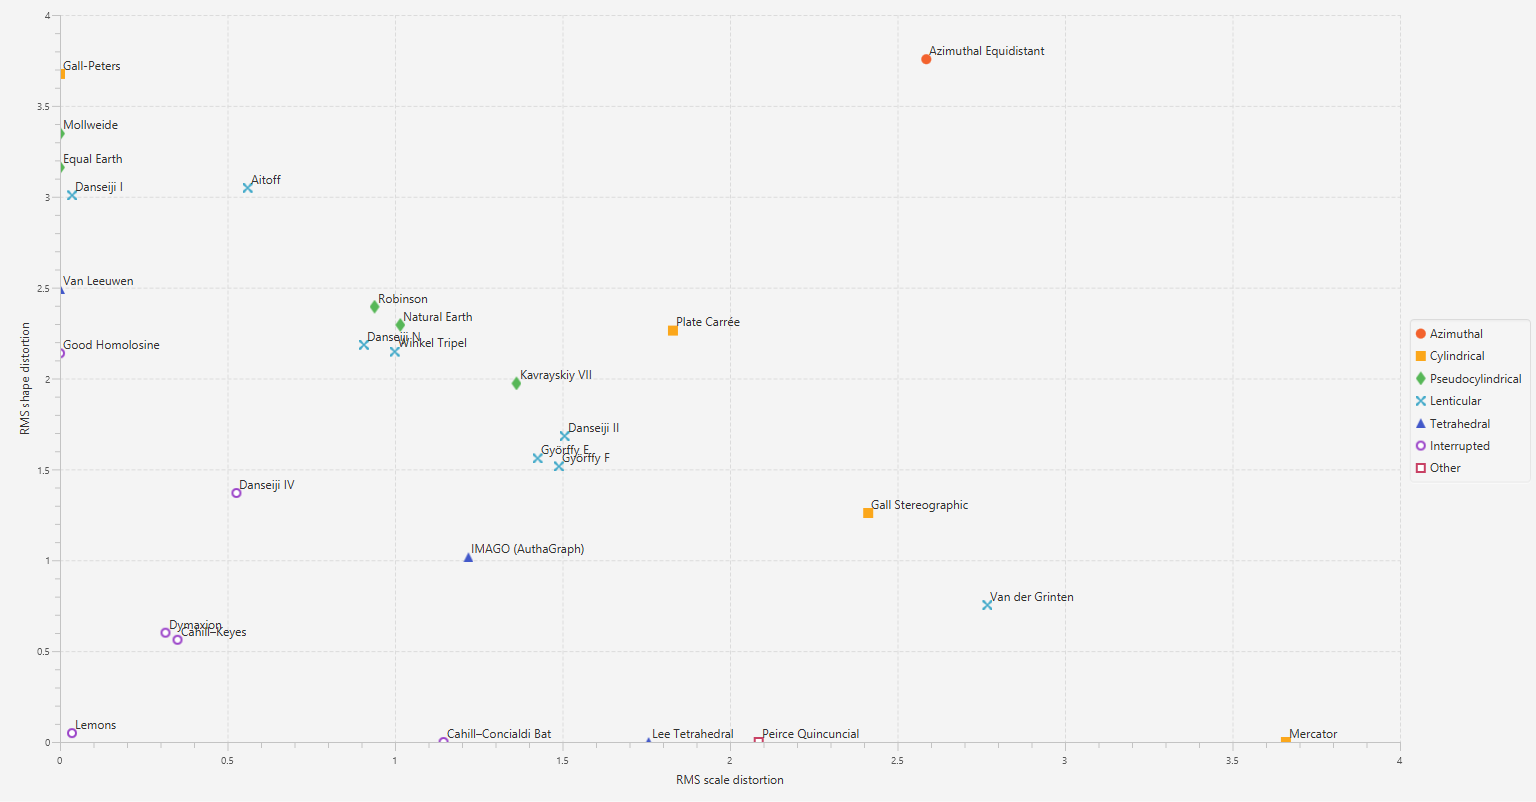
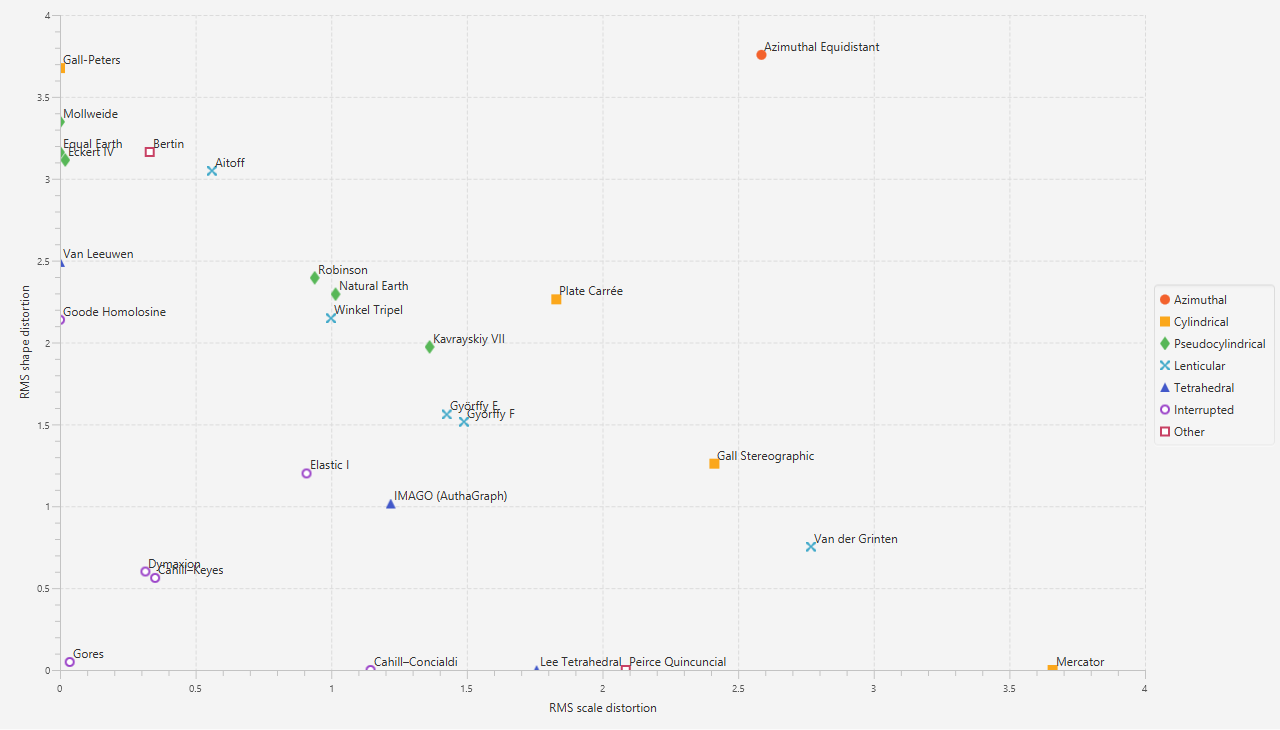
update MapPlotter
drop Danseiji projections, add Elastic projections and Bertin projection.  the resulting graph looks different now owing to my lower-resolution laptop, so that's fun.

diff --git a/src/apps/MapPlotter.java b/src/apps/MapPlotter.java
@@ -23,15 +23,6 @@
  */
 package apps;
 
-import java.io.File;
-import java.io.IOException;
-import java.util.LinkedList;
-import java.util.List;
-import java.util.Timer;
-import java.util.TimerTask;
-
-import javax.imageio.ImageIO;
-
 import javafx.application.Application;
 import javafx.application.Platform;
 import javafx.beans.value.ChangeListener;
@@ -47,10 +38,10 @@ import javafx.scene.control.Label;
 import javafx.scene.layout.AnchorPane;
 import javafx.scene.layout.StackPane;
 import javafx.stage.Stage;
-import maps.Danseiji;
 import maps.ArbitraryPseudocylindrical;
 import maps.Azimuthal;
 import maps.Cylindrical;
+import maps.Elastic;
 import maps.EqualEarth;
 import maps.Gyorffy;
 import maps.Lenticular;
@@ -60,6 +51,14 @@ import maps.Polyhedral;
 import maps.Projection;
 import maps.Pseudocylindrical;
 import maps.WinkelTripel;
+
+import javax.imageio.ImageIO;
+import java.io.File;
+import java.io.IOException;
+import java.util.LinkedList;
+import java.util.List;
+import java.util.Timer;
+import java.util.TimerTask;
 
 import static java.lang.Math.log;
 
@@ -80,16 +79,15 @@ public class MapPlotter extends Application {
 	private static final Projection[] AZIMUTHAL = { Azimuthal.POLAR };
 	private static final Projection[] PSEUDOCYL = { Pseudocylindrical.MOLLWEIDE,
 			ArbitraryPseudocylindrical.ROBINSON, ArbitraryPseudocylindrical.NATURAL_EARTH,
-			Pseudocylindrical.KAVRAYSKIY_VII, EqualEarth.EQUAL_EARTH };
+			Pseudocylindrical.KAVRAYSKIY_VII, EqualEarth.EQUAL_EARTH, Pseudocylindrical.ECKERT_IV };
 	private static final Projection[] LENTICULAR = {Lenticular.AITOFF, Lenticular.VAN_DER_GRINTEN,
-	                                                WinkelTripel.WINKEL_TRIPEL, Danseiji.DANSEIJI_N, Danseiji.DANSEIJI_I, // TODO: ELASTIK
-	                                                Danseiji.DANSEIJI_II, Gyorffy.E, Gyorffy.F };
+	                                                WinkelTripel.WINKEL_TRIPEL, Gyorffy.E, Gyorffy.F };
 	private static final Projection[] TETRAHEDRAL = { Polyhedral.LEE_TETRAHEDRAL_RECTANGULAR,
 			Polyhedral.AUTHAGRAPH, Polyhedral.VAN_LEEUWEN };
 	private static final Projection[] CHEATY = {Misc.LEMONS, Octahedral.KEYES_STANDARD,
-	                                            Polyhedral.DYMAXION, Octahedral.CAHILL_CONCIALDI, Danseiji.DANSEIJI_IV,
-	                                            Pseudocylindrical.HOMOLOSINE_INTERRUPTED };
-	private static final Projection[] OTHER = { Misc.PEIRCE_QUINCUNCIAL };
+	                                            Polyhedral.DYMAXION, Octahedral.CAHILL_CONCIALDI,
+	                                            Elastic.ELASTIC_I, Pseudocylindrical.HOMOLOSINE_INTERRUPTED };
+	private static final Projection[] OTHER = { Misc.PEIRCE_QUINCUNCIAL, Lenticular.BERTIN };
 	
 	
 	private StackPane stack;

diff --git a/src/maps/Octahedral.java b/src/maps/Octahedral.java
@@ -495,7 +495,7 @@ public class Octahedral {
 		 * @param tipOffset if the projection is for a truncated octahedron, this is the distance from where the
 		 *                  tip of the octant would be for a true octahedron to where it actually is
 		 * @param projection the projection to be used for each face, in case meridians and parallels are involved
-		 *                   in the shape TODO: right now I'm using the full projection but ideally this should be a projection for just one octant
+		 *                   in the shape
 		 */
 		abstract Shape drawShape(double tipOffset, Projection projection);
 
